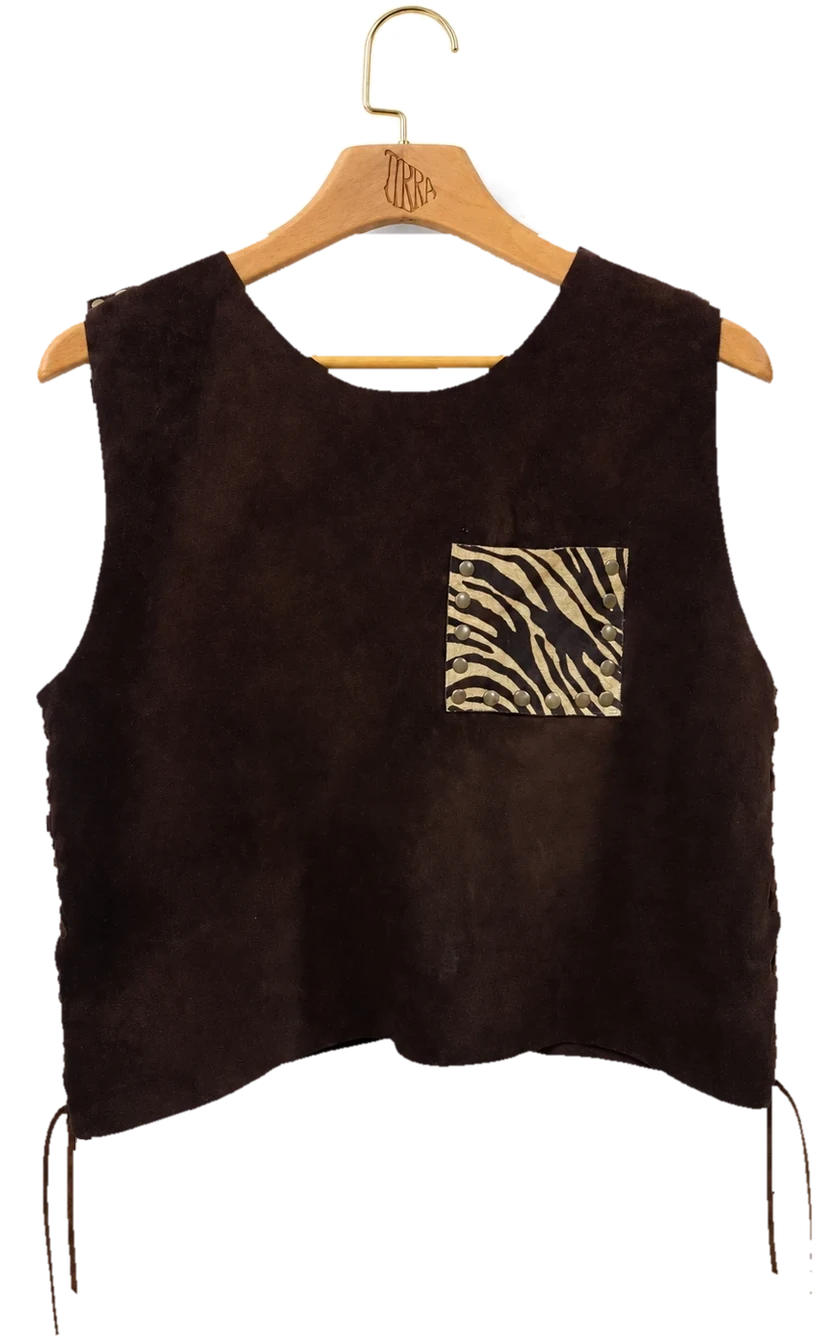
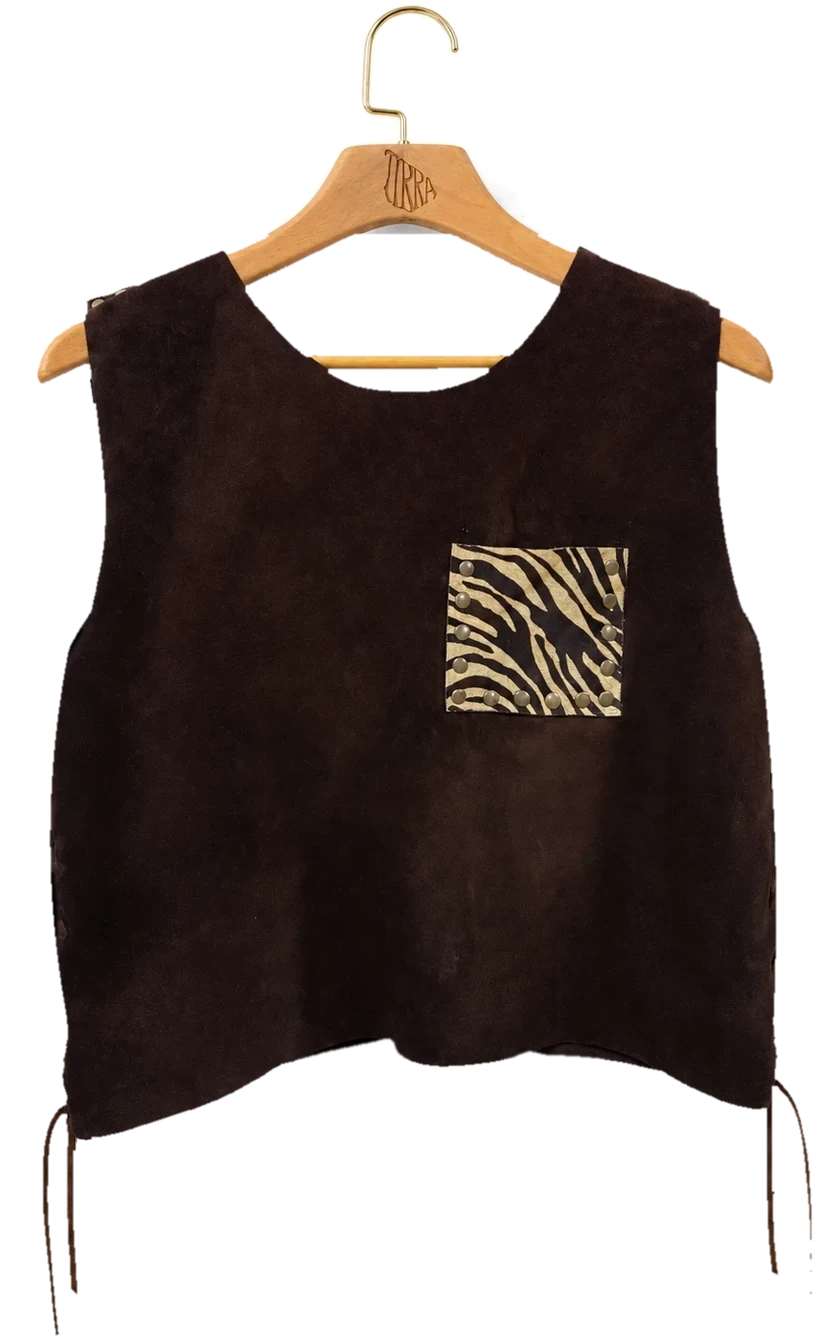
TIRRA: detalles reales, costados parejos en la Pechera y gancho que abraza la barra
Claude-Session: https://claude.ai/code/session_01FHVGg6LRu9CuR4S83BY3x6

diff --git a/patria/tirra.js b/patria/tirra.js
@@ -213,9 +213,9 @@
      mueve. Clic (o segundo toque) la descuelga y se puede girar arrastrando. */
   var PIEZAS = [
     // fotos con la percha, todas en el mismo lienzo (gancho centrado arriba)
-    { id: "pec-cria",  img: "images/perch-pec-cria.webp?v=7",  espalda: "images/perch-pec-cria-b.webp?v=7" },
-    { id: "cha-cruz",  img: "images/perch-cha-cruz.webp?v=7",  espalda: "images/perch-cha-cruz-b.webp?v=7" },
-    { id: "cha-latte", img: "images/perch-cha-latte.webp?v=7", espalda: "images/perch-cha-latte-b.webp?v=7" }
+    { id: "pec-cria",  img: "images/perch-pec-cria.webp?v=8",  espalda: "images/perch-pec-cria-b.webp?v=8" },
+    { id: "cha-cruz",  img: "images/perch-cha-cruz.webp?v=8",  espalda: "images/perch-cha-cruz-b.webp?v=8" },
+    { id: "cha-latte", img: "images/perch-cha-latte.webp?v=8", espalda: "images/perch-cha-latte-b.webp?v=8" }
   ].filter(function (x) { return producto(x.id); });
   var riel = document.getElementById("riel");
   var perchero = { abierto: false, cerrar: function () {}, girar: function () {} };
@@ -240,7 +240,8 @@
       if (x.espalda) { var pre = new Image(); pre.src = x.espalda; }
       var orig = ((x._collar ? 0.5 : (x.hookX || 0.5)) * 100).toFixed(1) + "% 0";
       b.firstChild.style.transformOrigin = orig; b.firstChild.firstChild.style.transformOrigin = orig;
-      return { el: b, mece: b.firstChild, giro: b.firstChild.firstChild, img: b.querySelector("img") };
+      var tapa = document.createElement("span"); tapa.className = "pieza__tapa"; tapa.setAttribute("aria-hidden", "true"); b.appendChild(tapa);
+      return { el: b, mece: b.firstChild, giro: b.firstChild.firstChild, img: b.querySelector("img"), tapa: tapa };
     });
     if (puntos) PIEZAS.forEach(function (x, i) {
       var d = document.createElement("button"); d.type = "button"; d.setAttribute("aria-label", "Ver " + producto(x.id).nombre);
@@ -259,7 +260,13 @@
       barra.style.top = (y - 3) + "px";
       barra.style.left = carrusel ? "-20px" : ""; barra.style.right = carrusel ? "-20px" : "";
       riel.style.height = Math.round(y + h + h * 0.2) + "px";
-      slots.forEach(function (s) { s.el.style.width = bw + "px"; s.el.style.height = h + "px"; s.el.style.top = (y - Math.round(h * 0.012) - 2) + "px"; });
+      // la barra apoya en la parte interna de la curva del gancho (y = 18 px de 820 en las fotos)
+      var apoyo = bw * 18 / 820;
+      slots.forEach(function (s) {
+        s.el.style.width = bw + "px"; s.el.style.height = h + "px"; s.el.style.top = (y - 3 - apoyo) + "px";
+        // un pedacito de barra por delante de la punta del gancho: así la punta queda por detrás
+        s.tapa.style.top = apoyo + "px"; s.tapa.style.left = (bw * 0.528) + "px"; s.tapa.style.width = (bw * 0.072) + "px";
+      });
       if (puntos) puntos.hidden = !carrusel;
       objetivos(); 
     }
@@ -289,6 +296,7 @@
       s.el.style.zIndex = i === activa ? 30 : 10 + i;
       s.mece.style.transform = "rotate(" + (S.mece[i] || 0).toFixed(3) + "deg)";
       s.giro.style.transform = "scale(" + esc.toFixed(4) + ")";
+      s.tapa.style.transform = "translateX(" + ((esc - 1) * w * 0.06 + Math.sin((S.mece[i] || 0) * Math.PI / 180) * w * 0.03).toFixed(2) + "px)";
     }
     function paso(ahora) {
       var dt = S.ult ? Math.min(0.034, (ahora - S.ult) / 1000) : 1 / 60; S.ult = ahora;

diff --git a/patria/tirra.css b/patria/tirra.css
@@ -115,6 +115,8 @@ body.menu-abierto .header .logo__claro{ display:none; } body.menu-abierto .heade
 .pieza__giro{ position:absolute; inset:0; will-change:transform; }
 .pieza__img{ position:absolute; left:0; top:0; width:100%; height:auto; pointer-events:none; -webkit-user-drag:none; }
 .pieza--collar .pieza__img{ left:15%; width:70%; }
+.pieza__tapa{ position:absolute; height:7px; border-radius:2px; pointer-events:none; z-index:2;
+  background:linear-gradient(#7a5a40 0%, #a07a58 22%, #5b412e 55%, #2b1e15 100%); }
 .riel__puntos{ display:flex; justify-content:center; gap:6px; margin-top:4px; }
 .riel__puntos[hidden]{ display:none; }
 .riel__puntos button{ width:6px; height:6px; border-radius:6px; background:rgba(31,24,19,.22); transition:width .3s var(--ease), background .3s; }
@@ -145,12 +147,13 @@ body.menu-abierto .header .logo__claro{ display:none; } body.menu-abierto .heade
 .detalle__mini--pronto{ display:flex; flex-direction:column; align-items:center; justify-content:center; gap:4px; border-style:dashed; cursor:default; opacity:.6; background:transparent; }
 .detalle__mini--pronto span{ font-size:10px; font-weight:700; letter-spacing:-.01em; color:var(--suave); }
 .detalle__mini--pronto small{ font-size:7.5px; letter-spacing:.14em; text-transform:uppercase; color:var(--gris); }
-.detalle__foto{ position:absolute; left:-22%; top:6%; width:144%; aspect-ratio:1; object-fit:cover; opacity:0; pointer-events:none; transition:opacity .45s; }
+.detalle__foto{ position:absolute; left:-14%; top:0; width:128%; aspect-ratio:3/4; object-fit:cover; opacity:0; pointer-events:none; transition:opacity .45s; }
 .detalle__figura.ver-foto .detalle__foto{ opacity:1; }
 .detalle__figura .detalle__arrastre, .detalle__figura .detalle__hilo{ transition:opacity .45s; }
 .detalle__figura.ver-foto .detalle__arrastre, .detalle__figura.ver-foto .detalle__hilo{ opacity:0; pointer-events:none; }
 .detalle__figura{ position:relative; margin:0 auto; height:min(66vh,600px); aspect-ratio:200/310; transform-origin:50% 0; }
-.detalle__hilo{ position:absolute; left:50%; bottom:100%; width:2px; height:50vh; transform:translateX(-50%); background:linear-gradient(90deg,#8a7d70,#3a2c22); opacity:.7; }
+.detalle__hilo{ position:absolute; left:50%; top:-50vh; width:2px; height:calc(50vh + 2.2%); transform:translateX(-50%); background:linear-gradient(90deg,#8a7d70,#3a2c22); opacity:.7; z-index:0; }
+.detalle__arrastre{ z-index:1; }
 .detalle__arrastre{ position:absolute; inset:0; perspective:1400px; cursor:grab; touch-action:pan-y; }
 .detalle__arrastre:active{ cursor:grabbing; }
 .detalle__giro{ position:absolute; inset:0; transform-style:preserve-3d; will-change:transform; }
@@ -366,7 +369,7 @@ body.con-modal .wa, body.menu-abierto .wa{ opacity:0; pointer-events:none; }
   .detalle__minis::-webkit-scrollbar{ display:none; }
   .detalle__mini{ width:58px; height:72px; }
   .detalle__figura{ order:1; } .detalle__info{ order:3; }
-  .detalle__foto{ left:-10%; width:120%; top:6%; }
+  .detalle__foto{ left:-8%; width:116%; top:0; }
   .detalle__figura{ height:min(48vh,420px); }
   .detalle__info{ text-align:center; align-items:center; }
   .detalle__ficha{ text-align:center; }

diff --git a/patria/productos.js b/patria/productos.js
@@ -35,8 +35,8 @@ const CONFIG = {
 
 // TODO: faltan los precios reales (hoy todos dicen "Consultar precio")
 const PRODUCTOS = [
-  { id:"pec-cria",    nombre:"Pechera Cría",       cat:"chalecos",   desc:"Gamuza marrón, cordones y bolsillo cebra con tachas", precio:1990, antes:null, tag:"Nuevo", img:"images/prod-pec-cria-b.jpg", img2:"images/prod-pec-cria.jpg", fotos:["images/det-pec-cria-1.jpg","images/det-pec-cria-2.jpg","images/prod-pec-cria-d.jpg"] },
-  { id:"cha-cruz",    nombre:"Chaleco Cruz",       cat:"chalecos",   desc:"Gamuza suela, tachas en hombros y frente, cordones cruzados", precio:1990, antes:null, tag:"Nuevo", img:"images/prod-cha-cruz.jpg", img2:"images/prod-cha-cruz-b.jpg", fotos:["images/det-cha-cruz-1.jpg","images/det-cha-cruz-2.jpg","images/det-cha-cruz-3.jpg","images/prod-cha-cruz-d.jpg"] },
+  { id:"pec-cria",    nombre:"Pechera Cría",       cat:"chalecos",   desc:"Gamuza marrón, cordones y bolsillo cebra con tachas", precio:1990, antes:null, tag:"Nuevo", img:"images/prod-pec-cria-b.jpg", img2:"images/prod-pec-cria.jpg", fotos:["images/det-pec-cria-bolsillo.jpg","images/det-pec-cria-costado.jpg","images/det-pec-cria-2.jpg"] },
+  { id:"cha-cruz",    nombre:"Chaleco Cruz",       cat:"chalecos",   desc:"Gamuza suela, tachas en hombros y frente, cordones cruzados", precio:1990, antes:null, tag:"Nuevo", img:"images/prod-cha-cruz.jpg", img2:"images/prod-cha-cruz-b.jpg", fotos:["images/det-cha-cruz-costado.jpg","images/det-cha-cruz-1.jpg","images/det-cha-cruz-2.jpg"] },
   { id:"cha-latte",   nombre:"Chaleco Latte Básico", cat:"chalecos",  desc:"Gamuza chocolate, abierto adelante, tiras laterales para ajustar", precio:1990, antes:null, tag:"Nuevo", img:"images/prod-cha-latte.jpg", img2:"images/prod-cha-latte-b.jpg", fotos:["images/det-cha-latte-1.jpg","images/det-cha-latte-2.jpg"] },
 
   { id:"col-tierra",  nombre:"Collar Tierra",      cat:"collares",   desc:"Cuero vacuno + piedra natural",       precio:null, antes:null, tag:"Nuevo", img:"images/prod-col-tierra-blanco.jpg", img2:"images/prod-col-tierra.jpg" },

diff --git a/patria/index.html b/patria/index.html
@@ -14,7 +14,7 @@
 <link rel="preconnect" href="https://fonts.googleapis.com">
 <link rel="preconnect" href="https://fonts.gstatic.com" crossorigin>
 <link href="https://fonts.googleapis.com/css2?family=Inter:wght@400;700&display=swap" rel="stylesheet">
-<link rel="stylesheet" href="tirra.css?v=13">
+<link rel="stylesheet" href="tirra.css?v=14">
 </head>
 <body>
 
@@ -277,7 +277,7 @@
 
 <script src="https://cdnjs.cloudflare.com/ajax/libs/gsap/3.12.5/gsap.min.js"></script>
 <script src="https://cdnjs.cloudflare.com/ajax/libs/gsap/3.12.5/ScrollTrigger.min.js"></script>
-<script src="productos.js?v=26"></script>
-<script src="tirra.js?v=17"></script>
+<script src="productos.js?v=27"></script>
+<script src="tirra.js?v=18"></script>
 </body>
 </html>

diff --git a/patria/images/emparejar-costados.py b/patria/images/emparejar-costados.py
@@ -1,0 +1,38 @@
+# Empareja los costados (de la sisa al ruedo) con una línea suave
+import sys, numpy as np, cv2
+from PIL import Image
+def emparejar(path):
+    im=np.asarray(Image.open(path).convert('RGBA')).copy(); H,W=im.shape[:2]
+    a=im[...,3]; m=a>128
+    cuenta=m.sum(axis=1); mx=cuenta.max()
+    filas=np.arange(H)
+    y0=int(np.argmax((filas>H*0.3)&(cuenta>0.88*mx)))+2               # debajo de la sisa
+    cand=np.nonzero(cuenta>0.62*mx)[0]; y1=int(cand[-1])-2             # antes del ruedo (sin cordones)
+    ys=np.arange(y0,y1); L=[];R=[]
+    for y in ys:
+        xs=np.nonzero(m[y])[0]; L.append(xs[0]); R.append(xs[-1])
+    L=np.array(L,float); R=np.array(R,float)
+    # ajuste robusto: mediana móvil + polinomio de grado 2
+    def suave(v):
+        med=np.array([np.median(v[max(0,i-25):i+25]) for i in range(len(v))])
+        p=np.polyfit(ys,med,2); return np.polyval(p,ys)
+    Ls=suave(L)+2; Rs=suave(R)-2
+    # en las puntas, pasar de a poco del borde original al borde parejo
+    T=min(40,len(ys)//4); t=np.ones(len(ys))
+    t[:T]=np.linspace(0,1,T); t[-T:]=np.minimum(t[-T:],np.linspace(1,0,T))
+    Ls=L*(1-t)+Ls*t; Rs=R*(1-t)+Rs*t
+    nuevo=a.copy()
+    rellenar=np.zeros((H,W),np.uint8)
+    for k,y in enumerate(ys):
+        l=int(round(Ls[k])); r=int(round(Rs[k]))
+        nuevo[y,:max(l,0)]=0; nuevo[y,r+1:]=0
+        for x0,x1 in ((l,l+30),(r-30,r+1)):                              # solo una franja junto al borde
+            seg=a[y,x0:x1]<200; rellenar[y,x0:x1][seg]=1; nuevo[y,x0:x1]=255
+    # transición suave arriba/abajo de la zona
+    rgb=cv2.cvtColor(im[...,:3],cv2.COLOR_RGB2BGR)
+    rgb=cv2.inpaint(rgb,rellenar*255,4,cv2.INPAINT_TELEA); rgb=cv2.cvtColor(rgb,cv2.COLOR_BGR2RGB)
+    zona=np.zeros((H,W),np.uint8); zona[y0:y1]=1
+    bl=cv2.GaussianBlur(nuevo,(3,3),0); nuevo=np.where(zona>0,bl,a)
+    Image.fromarray(np.dstack([rgb,nuevo]).astype(np.uint8),'RGBA').save(path,quality=90,method=6)
+    print(path,'zona',y0,y1)
+for p in sys.argv[1:]: emparejar(p)

diff --git a/notas/patria.md b/notas/patria.md
@@ -110,3 +110,6 @@ la página queda usable sin animaciones.
 - Tercer chaleco: **Chaleco Latte Básico** ($1990, gamuza chocolate, abierto). Fotos `prod-cha-latte(-b).jpg` y `perch-cha-latte(-b).webp`.
 - Las 6 fotos del perchero se rearmaron en un **mismo lienzo** (820×1341, gancho centrado) para que todas las perchas tengan el mismo tamaño. Script: `images/recortar-percha.py`.
 - Pieza abierta estilo tienda: columna de miniaturas a la izquierda (frente, espalda, detalles `det-*.jpg` recortados de las fotos en alta, y "Más fotos · Próximamente"), foto grande al centro, datos + carrito + WhatsApp a la derecha. En celular las miniaturas van en fila debajo.
+- Fotos de detalle reales (de Facundo): `det-pec-cria-bolsillo.jpg`, `det-pec-cria-costado.jpg`, `det-cha-cruz-costado.jpg`.
+- Pechera Cría: costados emparejados de la sisa al ruedo (`images/emparejar-costados.py`, se corre después de `recortar-percha.py`).
+- Gancho real: la barra apoya en la parte interna de la curva y un pedacito de barra (`.pieza__tapa`) tapa la punta, así la punta queda por detrás. En la pieza abierta el hilo baja centrado hasta adentro de la curva del gancho.
